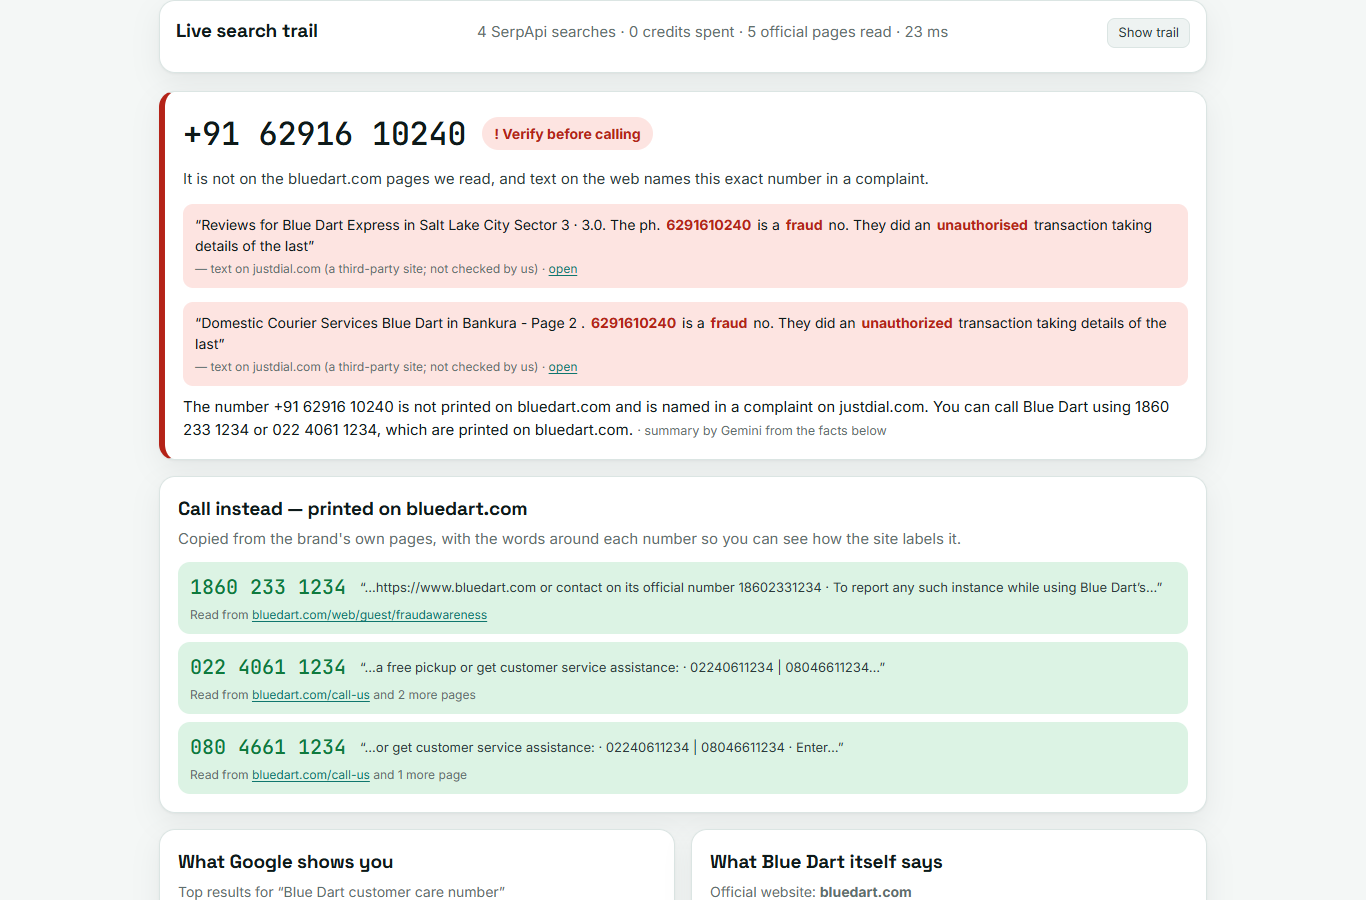
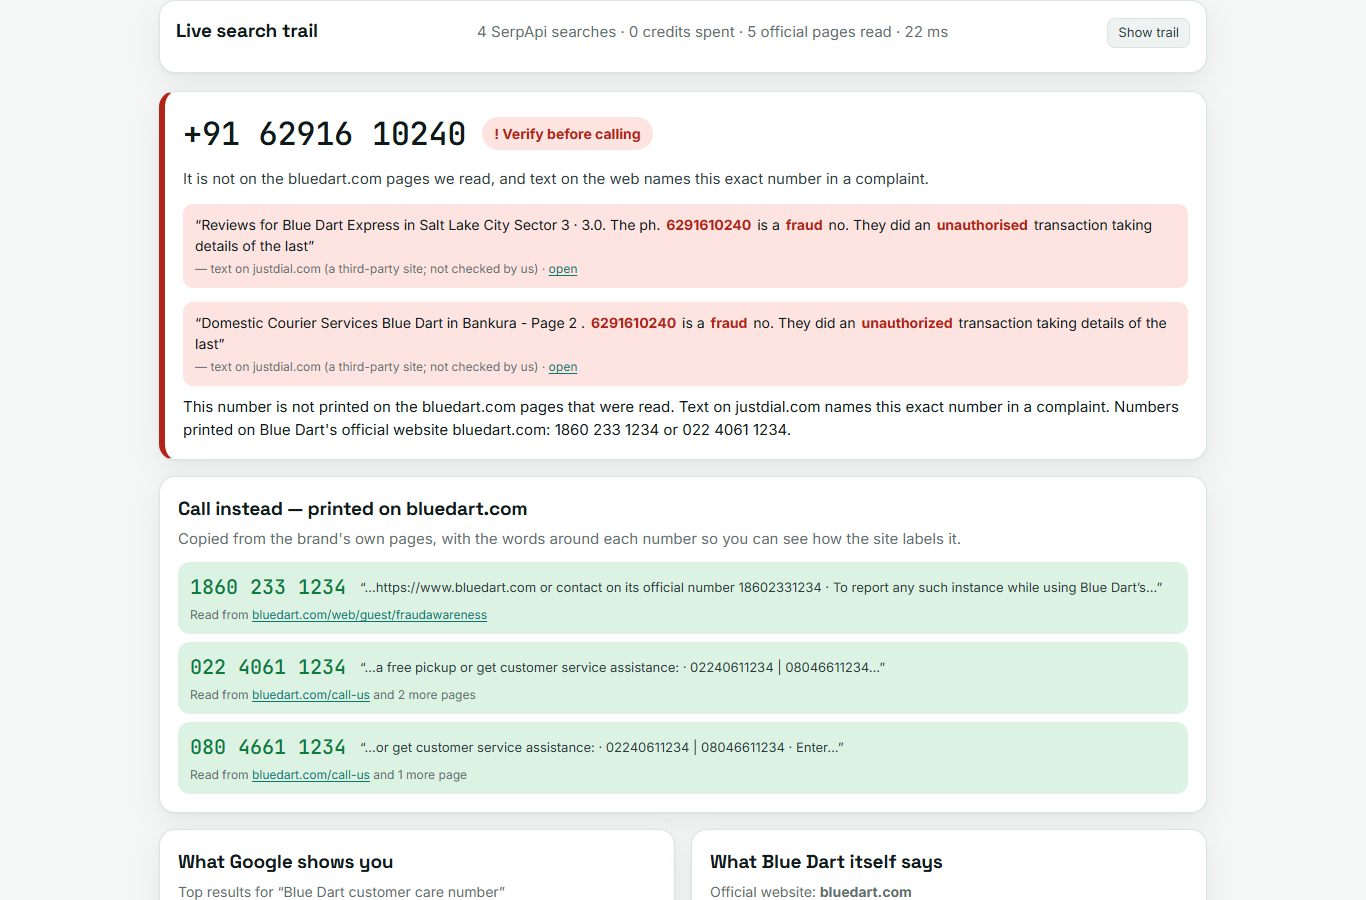
Verification log, README verified table, screenshots, plan updates

Changed region(s): [[0.123, 0.4356, 0.8609, 0.4978]]

diff --git a/docs/VERIFICATION.md b/docs/VERIFICATION.md
@@ -1,0 +1,44 @@
+# Verification log
+
+How RightNumber was checked against reality (8 Oct 2026):
+
+1. A ground-truth agent collected official numbers from each brand's own website, and publicly reported fake numbers, using WebSearch/WebFetch only ([ground_truth.json](ground_truth.json)).
+2. Ten real cases were run through the app on live SerpApi data. Raw event dumps are in `results/` (git-ignored). Run `bash scripts/verify_batch.sh` to rerun them for free from cache.
+3. An independent agent fact-checked every output against the web, opening the cited source pages ([VERIFICATION_web_check.md](VERIFICATION_web_check.md)).
+4. Every problem found was fixed, given a regression test (`tests/test_regressions.py`), and rerun from cache.
+
+## Final results (after fixes)
+
+| # | Case (input) | RightNumber says | Checked against the web | Result |
+|---|---|---|---|---|
+| 1 | **Blue Dart** · 6291610240 (number from a Justdial review) | 🔴 *Verify before calling*: complaint text names this exact number. Call instead 1860 233 1234 · 022 4061 1234 · 080 4661 1234 | A Justdial review (2019) calls it "a fraud no.". All three numbers are on [bluedart.com/fraudawareness](https://www.bluedart.com/fraudawareness) and [/call-us](https://www.bluedart.com/call-us) | ✅ |
+| 2 | **Blue Dart** · 1860 233 1234 | ✅ *Printed on the official site* | The fraud-awareness page says "contact on its official number 18602331234" | ✅ |
+| 3 | **Blue Dart** · 07016493282 (scam caller reported on TechEnclave) | 🟡 *Not found on the official pages we read* | Correctly not official. The TechEnclave report wasn't surfaced, so the result is 🟡 rather than 🔴 | ⚠ |
+| 4 | **IRCTC** · 09002327947 (posted on Facebook as a refund number) | 🔴 *Verify before calling*: advertised as the helpline of Koovs, IndiGo, Google Pay, Flipkart and Paytm. Call 14646 | It was posted as a "customer care" number for Koovs (econsumercourt) and Google Pay (blog comment, 2022). 14646 is on IRCTC's [Contact Us](https://contents.irctc.co.in/en/ContactUsEn.html) page | ✅ |
+| 5 | **IRCTC** · 14646 | ✅ *Printed on the official site* | Contact Us lists it as "Customer support within India" | ✅ |
+| 6 | **DTDC** · +91 9606 911 811 | ✅ *Printed on dtdc.com* | It's on [dtdc.com/customer-care](https://www.dtdc.com/customer-care/) | ✅ |
+| 7 | **HDFC Bank** (no number) | Call 1800 1600 · 1800 258 6161 | 1800 1600 is on the hdfc.bank.in home page ("how to reach us"). 1800 258 6161 is on [/upi/report-frauds](https://www.hdfc.bank.in/upi/report-frauds) ("To report any unauthorised … transactions, please call") | ✅ |
+| 8 | **State Bank of India** · 1800 1234 | ⚪ *Abstains*, because SBI runs bank.sbi and sbi.bank.in. One click on "Use sbi.bank.in" → ✅ *printed on* sbi.bank.in/web/customer-care/contact-us | [sbi.bank.in contact-us](https://sbi.bank.in/web/customer-care/contact-us/) says "Toll free number: 1800 1234" | ✅ one click · ⚠ automatic |
+| 9 | **Airtel** · 6290133964 (named as a scam caller on a complaint site, 2020) | 🟡 *Not on the airtel.in pages we read*. No call-instead number, because only escalation desks were found | The verdict is fair. Airtel's care line is the short code 121, which wasn't on the pages read | ⚠ |
+| 10 | **Amazon** · +91 80 6605 5000 (reported as a fake Amazon number) | 🟡 *Not on the amazon.in pages we read*. No call-instead number | Correct: Amazon India publishes no customer-care phone number. Numbers on seller product listings are excluded | ✅ |
+
+**7 ✅ · 3 ⚠ · 0 ❌.** None of the verdicts on a user's number overclaimed. The ⚠ rows are honest misses: an un-surfaced complaint, an automatic abstain, and a short code that wasn't found.
+
+## Bugs found by verification, all fixed with regression tests
+
+| Found by | Bug (real data) | Fix |
+|---|---|---|
+| Live run | bluedart.com's regional office table put **fax** lines into "call instead" | Fax-labelled numbers are never suggested |
+| Live run | HDFC's fraud page lists **Google Pay / WhatsApp** helplines as "Partner Customer Care" | Labelled "another organisation"; never suggested |
+| Live run | "To report any unauthorised … transactions, please call 1800 258 6161" was read as a **warning** | Report-fraud instructions are care lines; label windows stop at sentence ends |
+| Live run | **amazon.in product listings** carry sellers' "customer care" numbers | Listings, reviews, Q&A, forums and blogs on the official domain never count |
+| Live run | Amazon's "Call 112 for emergency services" and US "844-311-0406" were suggested | Emergency codes and North-American numbers are rejected |
+| Live run | dtdc.in vs dtdc.com and hdfcbank.com vs hdfc.bank.in **split the domain vote** | Redirect aliases are resolved before voting (free HEAD requests) |
+| Live run | The LLM summary turned "20 pins checked" into "your number appears on 20 pins" | Facts are code-written sentences; the summary is rejected if it names any number not suggested to call |
+| Web check | Airtel **appellate officers** and the HDFC **RBI-bonds** line were suggested | Escalation, agent and seller desks are never suggested; only care-labelled numbers are |
+| Web check | DTDC **retail-outlet** numbers from stores.dtdc.com were suggested | Branch/store pages are used only when the brand publishes nothing for everyone |
+| Web check | "Aircel Complaint Daudnagar" (a site's category label) counted as an Aircel helpline claim | A brand counts only when helpline words directly follow it |
+| Code review | "Beware of **fake customer care** numbers such as 98…" let "customer care" cancel the warning | Qualified fakes, fraudster/impostor sentences and "reported as fraudulent" lists are always warnings |
+| Code review | Scam-only Maps pins plus one SEO'd result could outvote the knowledge graph plus the model | Maps never breaks a tie; equal support means abstain |
+| Code review | Hostile HTML could freeze the server (quadratic regex) | Linear tokenizer, 20 s page deadline, parsing in a worker thread |
+| Test suite | Delhi's **011** landlines, `3.9876543210` decimals, `+91 1800…` input, `co.in` as a domain | Parser fixes |

diff --git a/docs/PLAN.md b/docs/PLAN.md
@@ -28,11 +28,12 @@ web/ (vanilla JS + SVG, no build)  ── EventSource SSE ──►  FastAPI (ap
    ├─ phones.py   Indian number parsing (+91/0/STD grouping/toll-free/short codes), strict extraction
    ├─ domains.py  registrable domains (.co.in, .bank.in…), directory sites, brand tokens
    ├─ serp.py     SerpApi client: disk cache · replay fixtures · per-check budget · hourly cap · scrub
-   ├─ pages.py    free HTTPS reads of the official domain's pages (same-domain only, 1.5 MB, 12 s, cached/replayable)
+   ├─ pages.py    free HTTPS reads of the official domain's pages (same-domain only, 2 MB, 20 s deadline, linear HTML tokenizer, cached/replayable); redirect-alias resolution
    ├─ official.py official-domain decision (Maps majority × KG/organic/local pack × LLM sanity × site: confirmation)
    ├─ evidence.py number→sources, complaint snippets (keyword rules), pin audit, verdict (all in code)
-   └─ llm.py      Gemini 2.5 Flash (OpenAI-compatible): (1) official-domain guess (domain only),
-                  (2) labels for snippets naming the number + 2-sentence summary from facts (digits validated)
+   └─ llm.py      Gemini 2.5 Flash (OpenAI-compatible): (1) official-domain guess (domain only, one vote of three),
+                  (2) 2-sentence summary that only shortens code-written fact sentences (rejected if it names any
+                  number not suggested, or uses vouching words). Snippet/complaint labelling is deterministic rules.
 ```
 
 ## 5. SerpApi calls per check (≤ 4 credits; brand-level calls cached 72 h per brand+city)
@@ -42,7 +43,7 @@ web/ (vanilla JS + SVG, no build)  ── EventSource SSE ──►  FastAPI (ap
 | 2 | `google` | `<brand> customer care number` (gl=in, google.co.in) | what a victim's search shows; KG/local pack/organic domains; complaint snippets |
 | 3 | `google` | `site:<official> customer care OR contact OR helpline` | finds the brand's own contact/help/fraud pages (+ snippets with numbers) |
 | 4 | `google` | `"<number variants>"` (only if a number was given) | where this exact number appears; complaint text naming it |
-Calls 1, 2, 4 and the LLM domain guess run in parallel; 3 waits for the domain decision; then up to 4 page reads.
+Calls 1, 2, 4 and the LLM domain guess run in parallel; 3 waits for the domain decision; then up to 5 page reads.
 
 ## 6. Core logic & thresholds
 - **Official domain:** candidates = Maps majority domain (≥3 pins with that site and ≥60% of pins that have a website), KG website, local-pack websites, non-directory organic domains whose label carries a brand token, LLM guess. Accept the domain backed by **≥2 independent sources** (Maps / Google results / LLM), not a directory. Redirect aliases (hdfcbank.com → hdfc.bank.in) are kept as the same brand. Then call 3 must return ≥1 page on it, else abstain. User-typed domain overrides (still needs call 3 to return pages).
@@ -58,7 +59,7 @@ Calls 1, 2, 4 and the LLM domain guess run in parallel; 3 waits for the domain d
 - **Summary:** LLM writes from pre-formatted facts; rejected (template used) if it contains any digit run not in the facts or banned words.
 
 ## 7. API
-- `GET /api/check?brand=&number=&city=&domain=` → SSE stream of events.
+- `GET /api/check/stream?brand=&number=&city=&domain=` → SSE stream (events: start · step · serp_call · page_read · official · notice · result · done · error).
 - `GET /api/examples` → recorded example queries (replay works with no keys).
 - `GET /api/status` → mode (live/replay), LLM model, credits left (free account API).
 - Cross-site guard (`Sec-Fetch-Site: cross-site` → 403), per-check budget 4, hourly live cap 30.
@@ -80,3 +81,6 @@ Number parsing traps (AWB ids, prices, pincodes, dates, +1 numbers, STD grouping
 
 ## 11. Submission checklist
 See HACKATHON_PLAYBOOK.md §9 — public repo LoheshM/rightnumber, replay with no keys, secret scan, README (problem, screenshots, engines table, verified table, limitations, AI disclosure, MIT), demo < 3 min from git-ignored DEMO_SCRIPT.md, form: Knowledge & Public Interest, AI tools = Claude Code + Gemini 2.5 Flash.
+
+## 12. Changes after verification and review
+See docs/VERIFICATION.md: care-labelled numbers only; fax / other-org / escalation / seller / branch / user-generated sources never suggested; Maps never breaks a domain tie; user-entered domain labelled as such; shared links prefill but never auto-run; anti-framing headers.

diff --git a/README.md b/README.md
@@ -86,7 +86,22 @@ At most **4 credits per check** (3 with no number). Brand-level searches are cac
 
 ## Verified against the web
 
-<!-- VERIFIED_TABLE -->
+Ten real cases were run on live data and then fact-checked against the web by an independent agent, which opened every cited page. The full log and the list of bugs this found are in [docs/VERIFICATION.md](docs/VERIFICATION.md).
+
+| Case (input) | RightNumber says | Web check | |
+|---|---|---|---|
+| Blue Dart · 6291610240 (from a Justdial review) | 🔴 Verify before calling: complaint text names it. Call 1860 233 1234 / 022 4061 1234 / 080 4661 1234 | The review calls it "a fraud no."; all 3 numbers are on bluedart.com | ✅ |
+| Blue Dart · 1860 233 1234 | ✅ Printed on bluedart.com | "contact on its official number 18602331234" (/fraudawareness) | ✅ |
+| Blue Dart · 07016493282 (scam caller on TechEnclave) | 🟡 Not on the official pages | Correct, but the forum report wasn't surfaced | ⚠ |
+| IRCTC · 09002327947 (Facebook "refund number") | 🔴 Advertised as the helpline of Koovs, IndiGo, Google Pay, Flipkart, Paytm. Call 14646 | Posted as a "customer care" number for several brands; 14646 is on IRCTC Contact Us | ✅ |
+| IRCTC · 14646 | ✅ Printed on irctc.co.in | Contact Us: "Customer support within India" | ✅ |
+| DTDC · +91 9606 911 811 | ✅ Printed on dtdc.com | dtdc.com/customer-care | ✅ |
+| HDFC Bank (no number) | Call 1800 1600 / 1800 258 6161 | On hdfc.bank.in (home; /upi/report-frauds) | ✅ |
+| SBI · 1800 1234 | ⚪ Abstains (bank.sbi vs sbi.bank.in). One click "Use sbi.bank.in" → ✅ | "Toll free number: 1800 1234" on sbi.bank.in | ✅ / ⚠ |
+| Airtel · 6290133964 (scam caller, complaint site) | 🟡 Not on airtel.in pages; no number suggested | Fair; Airtel's care line is the short code 121, which wasn't on the pages read | ⚠ |
+| Amazon · +91 80 6605 5000 (reported fake) | 🟡 Not on amazon.in pages; no number suggested | Amazon India publishes no phone number; seller-listing numbers are excluded | ✅ |
+
+**7 ✅ · 3 ⚠ · 0 ❌. No verdict on a user's number overclaimed.** Verification found 10 real bugs before submission, for example fax lines, partner (Google Pay) numbers, seller-listing numbers on amazon.in, appellate officers and franchise stores suggested as "call instead". Each is fixed and has a regression test.
 
 ## Quick start
 
@@ -110,7 +125,7 @@ GEMINI_API_KEY=...    # https://aistudio.google.com/apikey (free tier; optional 
 
 Command line: `uv run python -m scripts.check "Blue Dart" "6291610240" Delhi`
 
-Tests: `uv run pytest -q` (690 offline tests: respx blocks the network and keys are removed). Run `uv run ruff check` for lint and `uv run python -m scripts.secret_scan` to check for secrets.
+Tests: `uv run pytest -q` (705 offline tests: respx blocks the network and keys are removed). Run `uv run ruff check` for lint and `uv run python -m scripts.secret_scan` to check for secrets.
 
 ## Limitations (honest)
 
